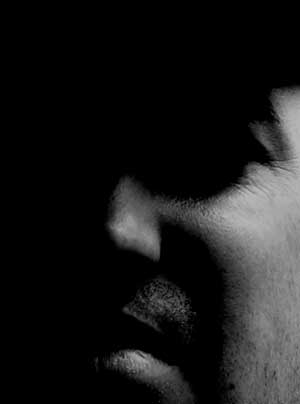
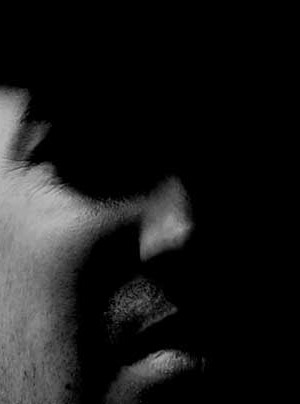
Flipped the crime map to the right side to improve balance. Also moved small ad position to the header

diff --git a/templates/base.html b/templates/base.html
@@ -78,14 +78,14 @@
     <body onload="load()" onunload="GUnload()">
         <div class="container_12 clear_fix">
             <div id="masthead" class="grid_12">
+                <div class="small_ad">
+                    <img src="{{ MEDIA_URL }}img/banner_234x60.gif" alt="small_banner" />
+                </div>
                 <h1 id="logo">thestate.com</h1>
                 <div id="date_filter">
-                    <div class="small_ad">
-                        <img src="{{ MEDIA_URL }}img/banner_234x60.gif" alt="small_banner" />
-                    </div>
-                  <form method="POST" action="{% url date-range-filter %}">
-                        <h4>Filter by Date Range</h4>
+                    <form method="POST" action="{% url date-range-filter %}">
                         <ul>
+                            <li><h4>Filter by Date Range</h4></li>
                             {{ DateRangeForm.as_ul }}
                             <li><input type="submit" name="submit" value="Filter" /></li>
                         </ul>
@@ -94,28 +94,10 @@
             </div>
 
             <div id="content" class="grid_12">
-            <div id="main_content" class="grid_7 alpha">
-                {% block map %}
-                <div id="map"></div>
-                {% endblock %}
-                <div id="crime_list" class="grid_7 alpha">
-                    {% block crime_list %}{% endblock %}
-                    <div class="big_ad">
-                        <img src="{{ MEDIA_URL }}img/banner_468x60.gif" alt="full_banner" />
-                    </div>
-                </div><!-- end div#crime_list -->
-            </div>
-            <div id="sidebar" class="grid_5 omega">
+                <div id="sidebar" class="grid_5 alpha">
                     <div id="legend grid_5">
                         <p class="view_all"><a href="/crimes/">View All Crimes</a></p>
-                    </div>
-
-                    <div id="sidebar_large" class="grid_3 alpha">
-                        <h3>Filter by Crime Type</h3>
-                        {% for crimetype in crimetypes %}
-                        <p><a href="/crimes/type/{{ crimetype.slug }}"><img src="{{ MEDIA_URL }}img/marker_{{ crimetype.marker_color }}.png" alt="{{ crimetype }}" />{{ crimetype }}</a></p>
-                        {% endfor %}
-                    </div><!-- end div#sidebar_large -->
+                    </div><!-- end ul#legend -->
 
                     <div id="sidebar_small" class="grid_2 omega">
                         <h3>Filter by Agency</h3>
@@ -124,11 +106,24 @@
                         {% endfor %}
                     </div><!-- end div#sidebar_small -->
 
-                   </div><!-- end ul#legend -->
+                    <div id="sidebar_large" class="grid_3 alpha">
+                        <h3>Filter by Crime Type</h3>
+                        {% for crimetype in crimetypes %}
+                        <p><a href="/crimes/type/{{ crimetype.slug }}"><img src="{{ MEDIA_URL }}img/marker_{{ crimetype.marker_color }}.png" alt="{{ crimetype }}" />{{ crimetype }}</a></p>
+                        {% endfor %}
+                    </div><!-- end div#sidebar_large -->
                 </div><!-- end div#sidebar -->
-
-                <div class="ad">
-                </div><!-- end div.ad -->
+                <div id="main_content" class="grid_7 omega">
+                    {% block map %}
+                    <div id="map"></div>
+                    {% endblock %}
+                    <div id="crime_list" class="grid_7 alpha">
+                        {% block crime_list %}{% endblock %}
+                        <div class="big_ad">
+                            <img src="{{ MEDIA_URL }}img/banner_468x60.gif" alt="full_banner" />
+                        </div>
+                    </div><!-- end div#crime_list -->
+                </div><!-- end div#main_content -->
             </div><!-- end div#content -->
         </div><!-- end div.container_12 -->
     </body>

diff --git a/static/css/master.css b/static/css/master.css
@@ -3,7 +3,7 @@
 * { font-family: Helvetica, Arial, sans-serif; }
 body { background: #333; }
 h1,h2,h3,h4,h5,h6 { color: #ccc; }
-div.container_12 { background: url('/static/img/crime_face.jpg') black bottom right no-repeat; }
+div.container_12 { background: url('/static/img/crime_face.jpg') black bottom left no-repeat; }
 .clear_fix:after { content: "."; display: block; width: 100%; clear: both; visibility: hidden; height: 1px; }
 .float_right { float: right; }
 .align_right { text-align: right; }
